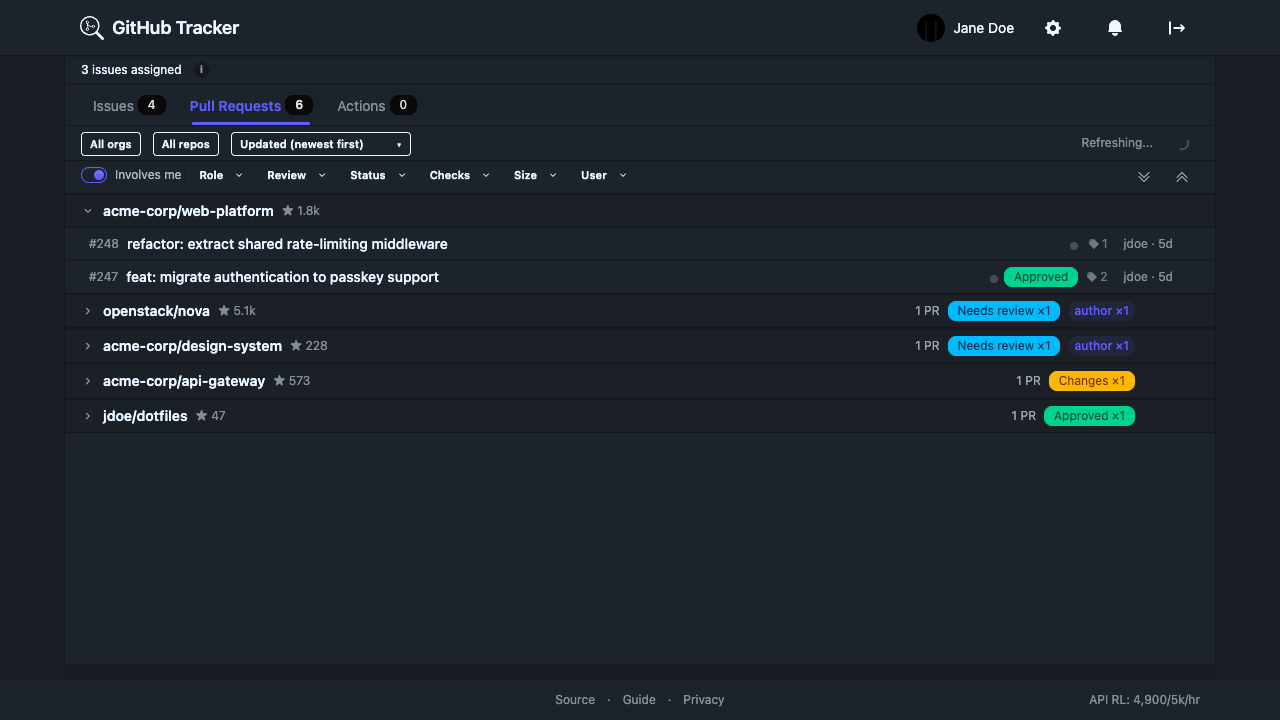
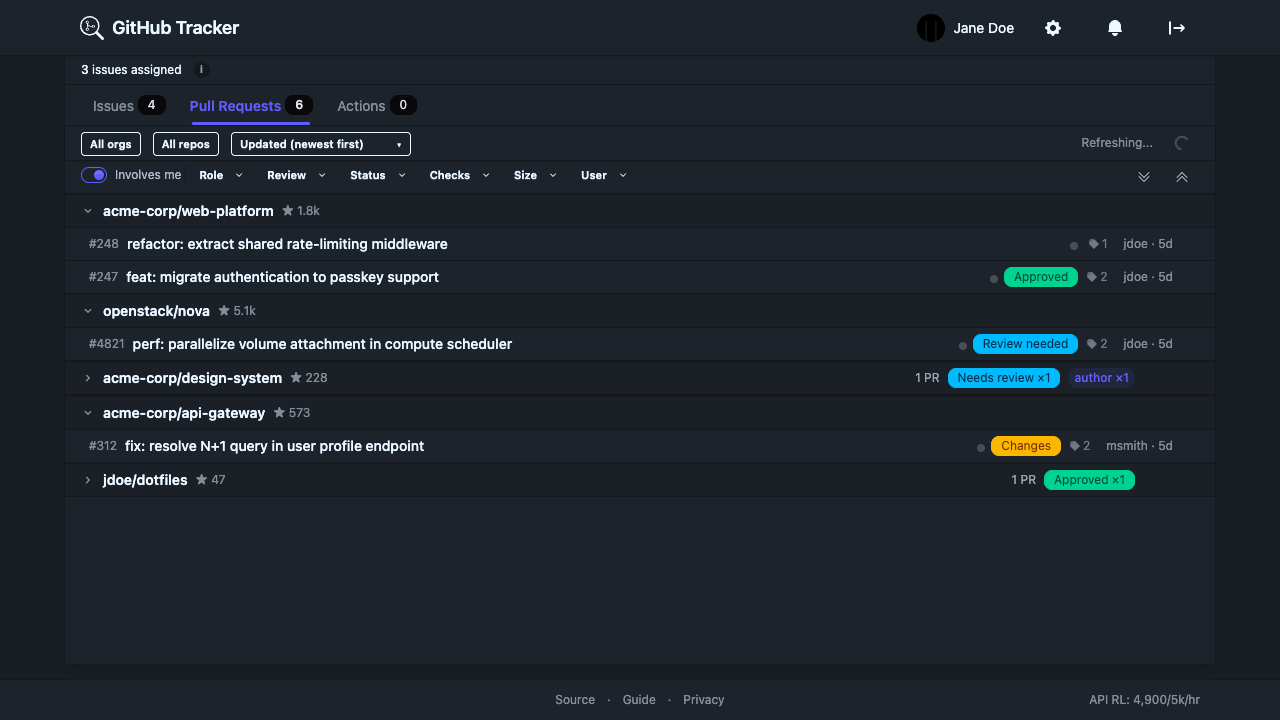
docs: expands 3 repo groups in both screenshots

Changed region(s): [[0.7188, 0.3972, 0.9062, 0.7028], [0.0625, 0.5194, 0.3438, 0.6722], [0.0625, 0.4583, 0.4062, 0.4889]]

diff --git a/e2e/capture-screenshot.spec.ts b/e2e/capture-screenshot.spec.ts
@@ -461,36 +461,38 @@ test("capture dashboard screenshot", async ({ page }) => {
   await page.getByRole("tab", { name: /pull requests/i }).click();
   await page.getByRole("tab", { name: /pull requests/i, selected: true }).waitFor();
 
-  // Wait for repo group headers to render (visible even when collapsed)
-  await page.getByText("acme-corp/web-platform").first().waitFor();
+  // Expand several repo groups for a richer screenshot
+  const reposToExpand = ["acme-corp/web-platform", "openstack/nova", "acme-corp/api-gateway"];
 
-  // Expand a repo group by clicking its header button (scoped to avoid notification bell)
-  const repoGroupBtn = page.getByRole("button", { expanded: false }).filter({ hasText: "acme-corp/web-platform" });
-  if (await repoGroupBtn.isVisible()) {
-    await repoGroupBtn.click();
-    await page.getByRole("button", { expanded: true }).filter({ hasText: "acme-corp/web-platform" }).waitFor();
+  await page.getByText("acme-corp/web-platform").first().waitFor();
+  for (const repo of reposToExpand) {
+    const btn = page.getByRole("button", { expanded: false }).filter({ hasText: repo });
+    if (await btn.isVisible()) {
+      await btn.click();
+      await page.getByRole("button", { expanded: true }).filter({ hasText: repo }).waitFor();
+    }
   }
 
   await page.screenshot({ path: "docs/dashboard-screenshot.png" });
 
-  // Switch to compact density: update the config in localStorage and reload
-  // so SolidJS reactive state (isCompact memos, <Show> guards) picks it up.
-  // Switch to compact density via the settings UI (client-side nav to preserve store state)
+  // Switch to compact density via settings UI (client-side nav to preserve store state)
   await page.getByRole("link", { name: "Settings" }).click();
   await page.getByRole("button", { name: /view density: compact/i }).waitFor();
   await page.getByRole("button", { name: /view density: compact/i }).click();
   await page.getByRole("button", { name: /view density: compact/i, pressed: true }).waitFor();
 
-  // Navigate back to dashboard via the back link (client-side, no full reload)
+  // Navigate back to dashboard (client-side, no full reload)
   await page.getByRole("link", { name: "Back to dashboard" }).click();
   await page.getByRole("tablist").waitFor();
   await page.getByRole("tab", { name: /pull requests/i }).click();
   await page.getByRole("tab", { name: /pull requests/i, selected: true }).waitFor();
   await page.getByText("acme-corp/web-platform").first().waitFor();
-  const compactRepoBtn = page.getByRole("button", { expanded: false }).filter({ hasText: "acme-corp/web-platform" });
-  if (await compactRepoBtn.isVisible()) {
-    await compactRepoBtn.click();
-    await page.getByRole("button", { expanded: true }).filter({ hasText: "acme-corp/web-platform" }).waitFor();
+  for (const repo of reposToExpand) {
+    const btn = page.getByRole("button", { expanded: false }).filter({ hasText: repo });
+    if (await btn.isVisible()) {
+      await btn.click();
+      await page.getByRole("button", { expanded: true }).filter({ hasText: repo }).waitFor();
+    }
   }
 
   await page.screenshot({ path: "docs/dashboard-screenshot-compact.png" });
